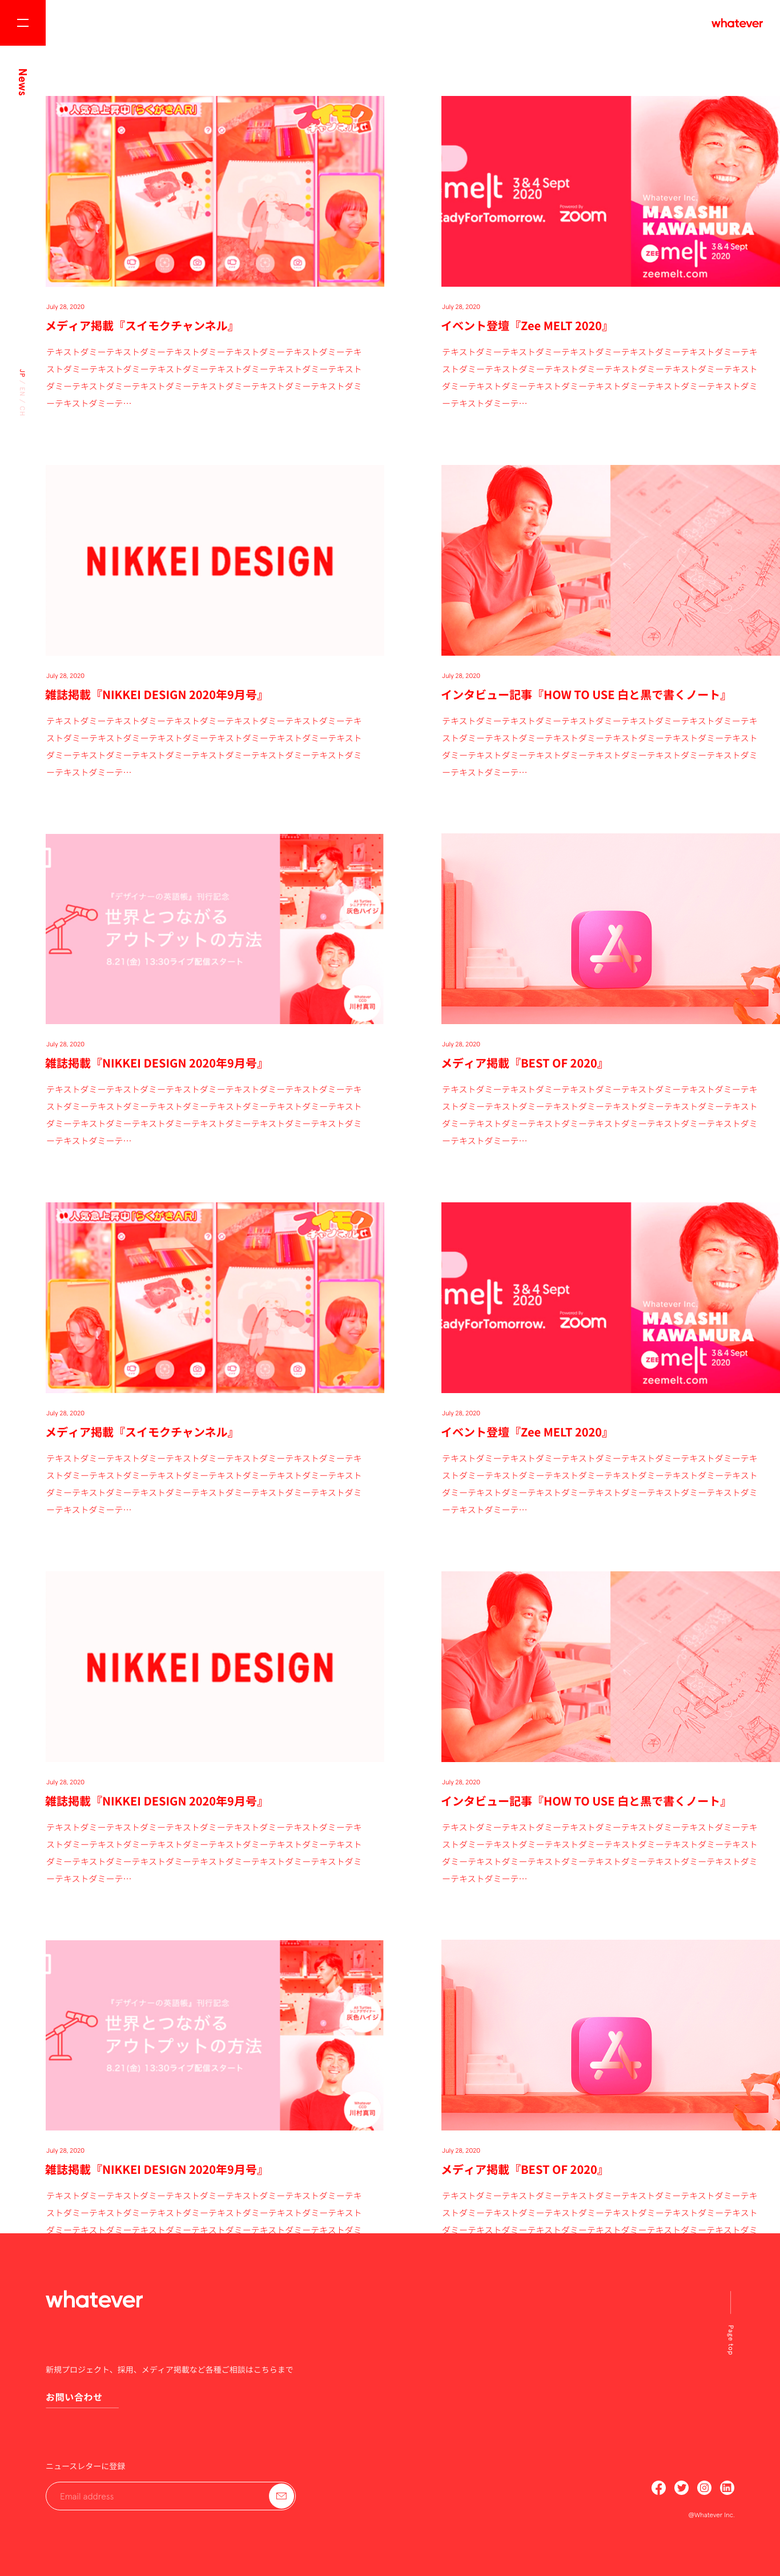
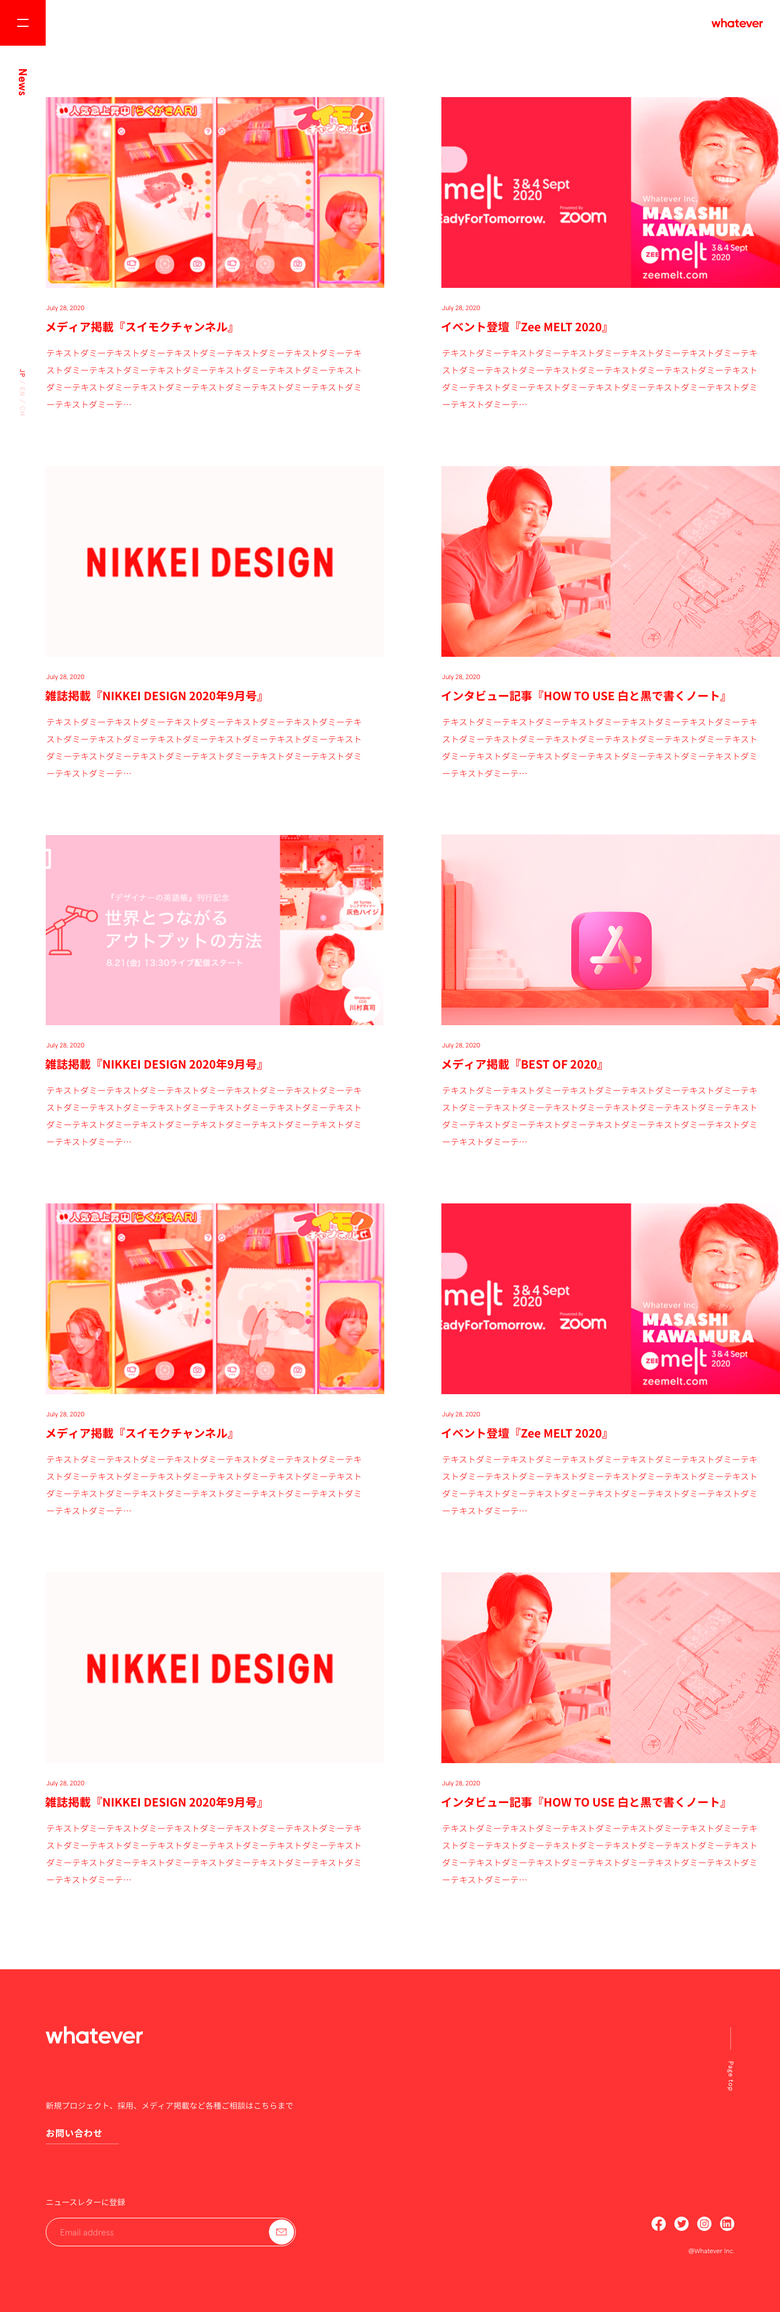
Effects for News index

diff --git a/pages/news/index.tsx b/pages/news/index.tsx
@@ -1,72 +1,77 @@
+import { useState } from 'react'
 import { GetStaticProps } from 'next'
 import Link from 'next/link'
 import { Entry, getNews } from 'lib/api'
 import Layout from 'components/Layout'
 import { Grad, GradImg } from 'components/Grad'
 
-const NewsItem = ({ entry }: { entry: Entry }) => (
-  <div className="news-item">
-    <Link href={`/news/${entry.slug}`}>
-      <a>
-        <div className="image"><GradImg><img src={entry.hero_image} alt="" /></GradImg></div>
-        <div className="info">
-          <Grad><div className="date">{entry.date}</div></Grad>
-          <Grad><div className="title">{entry.title}</div></Grad>
-          <Grad><div className="desc" dangerouslySetInnerHTML={{ __html: entry.content?.split('<!--more-->')[0] || '' }} /></Grad>
-        </div>
-      </a>
-    </Link>
-    <style jsx>{`
-      @import 'lib/vw.styl'
-      .news-item
-        font-size 0
-        width vwpx(593)
-      .image
-        img
+const NewsItem = ({ entry }: { entry: Entry }) => {
+  const [entered, setEntered] = useState(false)
+  return (
+    <>
+      <div className="news-item">
+        <Link href={`/news/${entry.slug}`}>
+          <a onMouseEnter={() => setEntered(true)} onMouseLeave={() => setEntered(false)}>
+            <GradImg mouseEntered={entered}><img src={entry.hero_image} alt="" /></GradImg>
+            <div><Grad className="date">{entry.date}</Grad></div>
+            <div><Grad className="title">{entry.title}</Grad></div>
+            <div><Grad className="desc"><div dangerouslySetInnerHTML={{ __html: entry.content?.split('<!--more-->')[0] || '' }} /></Grad></div>
+          </a>
+        </Link>
+      </div>
+      <style jsx>{`
+        @import 'lib/vw.styl'
+        .news-item
+          font-size 0
           width vwpx(593)
-          height vwpx(334)
-          object-fit cover
-      .date
-        display inline-block
-        font-size 1.2rem
-        font-weight 300
-        margin-top 3.0rem
-      .title
-        display inline-block
-        font-size 2.0rem
-        font-weight bold
-        line-height 3.0rem
-        margin-top 1.3rem
-      .desc
-        display -webkit-box
-        -webkit-box-orient vertical
-        -webkit-line-clamp 4
-        overflow hidden
-        text-overflow ellipsis
-        font-size 1.5rem
-        font-weight 300
-        line-height 3.0rem
-        margin-top 0.0rem
-        width vwpx(561)
-    `}</style>
-  </div>
-)
+          img
+            width vwpx(593)
+            height vwpx(334)
+            object-fit cover
+          :global(.date)
+            font-size 1.2rem
+            font-weight 300
+            margin-top 3.0rem
+          :global(.title)
+            font-size 2.0rem
+            font-weight bold
+            line-height 3.0rem
+            margin-top 1.3rem
+          :global(.desc)
+            display -webkit-box
+            -webkit-box-orient vertical
+            -webkit-line-clamp 4
+            overflow hidden
+            text-overflow ellipsis
+            font-size var(--font-size-ja)
+            font-weight 300
+            line-height 3.0rem
+            margin-top 1.6rem
+            width vwpx(561)
+            :global(p)
+              margin 0
+      `}</style>
+    </>
+  )
+}
 
 const NewsIndex = ({ entries }: { entries: Entry[] }) => (
-  <Layout title="News" side="News">
-    <div className="news-index">
-      {entries.map(entry => <NewsItem key={entry.slug} entry={entry} />)}
-    </div>
+  <>
+    <Layout title="News" side="News">
+      <div className="news-index">
+        {entries.map(entry => <NewsItem key={entry.slug} entry={entry} />)}
+      </div>
+    </Layout >
     <style jsx>{`
       @import 'lib/vw.styl'
       .news-index
-        margin-top 88px
+        margin-top 90px
         margin-bottom 150px
         display grid
         grid-template-columns 1fr 1fr
         grid-gap vwpx(92) vwpx(100)
     `}</style>
-  </Layout >
+  </>
 )
 
 export default NewsIndex

diff --git a/components/Layout.tsx b/components/Layout.tsx
@@ -14,6 +14,7 @@ let templateName: string
 // templateName = 'About_detail_03'
 // templateName = 'Work_index'
 // templateName = 'Work_detail'
+// templateName = 'News_index'
 // templateName = 'News_detail'
 // templateName = 'Team_index'
 // templateName = 'Team_detail'
